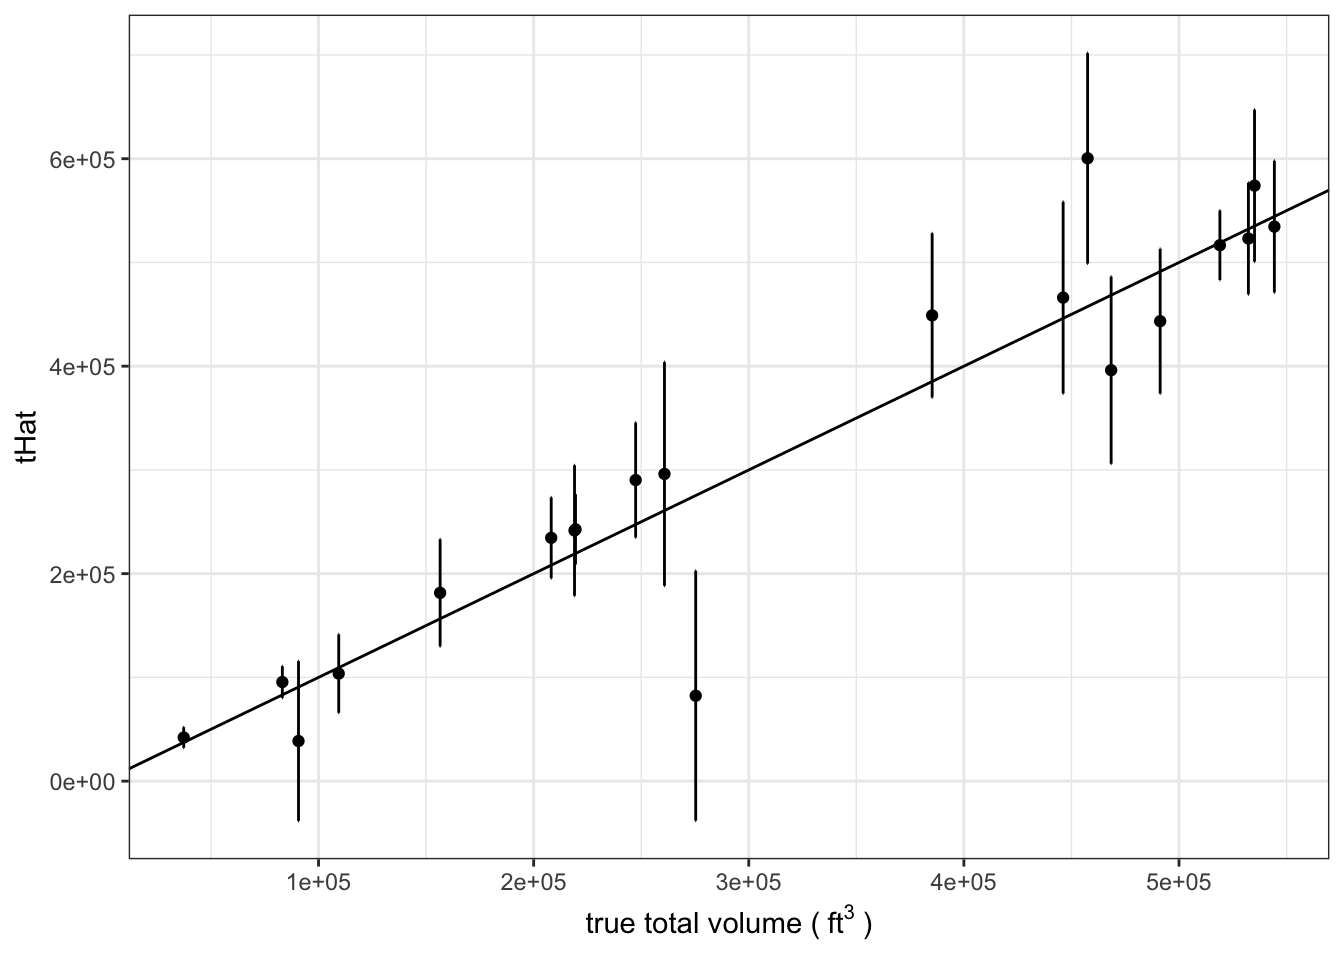
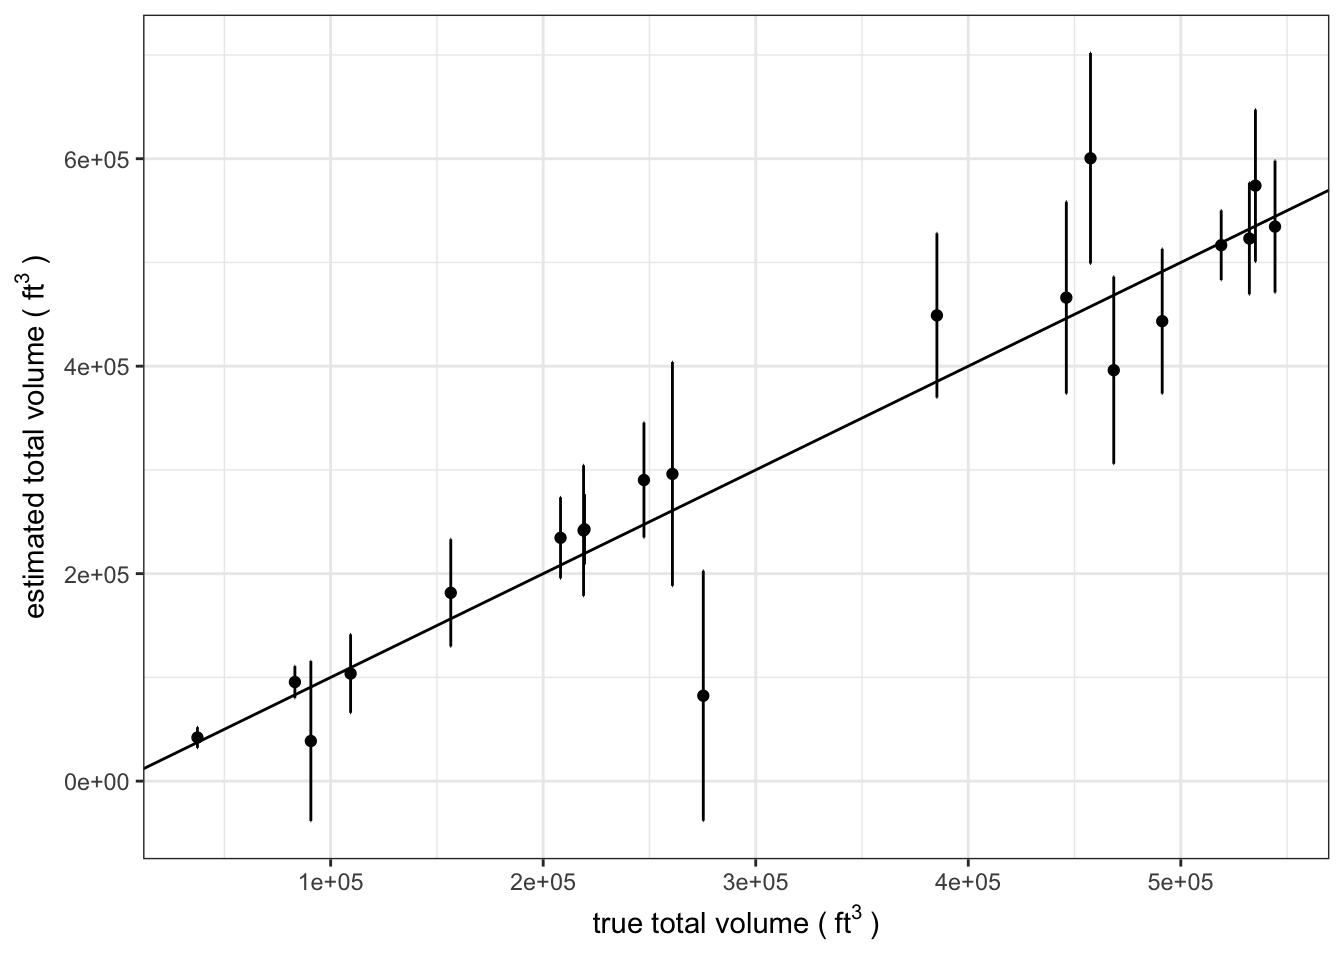
clean up posts

diff --git a/content/post/sf/2018-09-24-sf.html b/content/post/sf/2018-09-24-sf.html
@@ -5,11 +5,6 @@ date: "2018-09-24"
 categories: ["R"]
 tags: ["sf", "geospatial"]
 
-output:
-  md_document:
-    variant: markdown_github
-    fig_width: 7
-    preserve_yaml: true
 ---
 
 
@@ -42,13 +37,17 @@ output:
 <h3>Download some data</h3>
 <p>The ecological supersections make a cool spatial dataset that describe large ecological provinces across the continental US.</p>
 <pre class="r"><code># import supersection shapefile
-if(!file.exists(&quot;/tmp/gis-supersection-shape-file.zip&quot;)) {
-  download.file(url = &quot;https://www.arb.ca.gov/cc/capandtrade/protocols/usforest/2014/supersectionshapefiles/gis-supersection-shape-file.zip&quot;,
-                destfile = &quot;/tmp/gis-supersection-shape-file.zip&quot;)
-  
+if (!file.exists(&quot;/tmp/gis-supersection-shape-file.zip&quot;)) {
+  download.file(
+    url = &quot;https://www.arb.ca.gov/cc/capandtrade/protocols/usforest/2014/supersectionshapefiles/gis-supersection-shape-file.zip&quot;,
+    destfile = &quot;/tmp/gis-supersection-shape-file.zip&quot;
+  )
 }
 
-unzip(zipfile = &quot;/tmp/gis-supersection-shape-file.zip&quot;, exdir = &quot;/tmp/super&quot;)
+unzip(
+  zipfile = &quot;/tmp/gis-supersection-shape-file.zip&quot;,
+  exdir = &quot;/tmp/super&quot;
+)
 superFile &lt;- &quot;/tmp/super/Supersections/Supersections.shp&quot;</code></pre>
 </div>
 <div id="reading-in-spatial-data" class="section level3">
@@ -97,15 +96,19 @@ superFile &lt;- &quot;/tmp/super/Supersections/Supersections.shp&quot;</code></p
 <h3>Plotting</h3>
 <p>sf objects can be plotted using base R plotting methods, but the <code>ggplot</code> method creates really nice looking maps with a familiar interface to many users.</p>
 <pre class="r"><code>ggplot() +
-  geom_sf(data = supersectionShape,
-          size = 0.5,
-          color = &quot;black&quot;,
-          alpha = 0) +
+  geom_sf(
+    data = supersectionShape,
+    size = 0.5,
+    color = &quot;black&quot;,
+    alpha = 0
+  ) +
   theme_bw() +
   coord_sf() +
-  labs(title = &quot;Ecological Supersections&quot;,
-       subtitle = &quot;Map of the ecological supersections in the continental US&quot;,
-       caption = &quot;Source: CA ARB&quot;)</code></pre>
+  labs(
+    title = &quot;Ecological Supersections&quot;,
+    subtitle = &quot;Map of the ecological supersections in the continental US&quot;,
+    caption = &quot;Source: CA ARB&quot;
+  )</code></pre>
 <div class="figure"><span id="fig:ggplotting"></span>
 <img src="/post/sf/2018-09-24-sf_files/figure-html/ggplotting-1.png" alt="Map of ecological supersections in continental US" width="672" />
 <p class="caption">
@@ -130,26 +133,34 @@ Figure 1: Map of ecological supersections in continental US
 <p>It does not share the same projection, so we are going to need to reproject before we perform any spatial joins.</p>
 <p>If we want to know which supersections are present in the state of Minnesota, we can perform a spatial join to answer that question. The type of join performed by <code>st_join</code> defaults to “intersect” (<code>st_intersect</code>), but can be set to one of these instead: <code>st_disjoint</code>, <code>st_touches</code>, <code>st_crosses</code>, <code>st_within</code>, <code>st_contains</code>, <code>st_overlaps</code>, <code>st_covers</code>, <code>st_covered_by</code>, <code>st_equals</code>, or <code>st_equals_exact</code>.</p>
 <pre class="r"><code>mnSupersections &lt;- supersectionShape %&gt;%
-  st_join(st_transform(us_states, crs = 4326),
-          join = st_intersects) %&gt;%
+  st_join(
+    st_transform(us_states, crs = 4326),
+    join = st_intersects
+  ) %&gt;%
   filter(NAME == &quot;Minnesota&quot;)</code></pre>
 <pre><code>## although coordinates are longitude/latitude, st_intersects assumes that they are planar</code></pre>
 <pre class="r"><code>mn &lt;- us_states %&gt;%
   filter(NAME == &quot;Minnesota&quot;)</code></pre>
 <pre class="r"><code>ggplot() +
-  geom_sf(data = mn,
-          size = 0.5,
-          fill = &quot;blue&quot;,
-          alpha = 0.2) +
-  geom_sf(data = mnSupersections,
-          size = 0.5,
-          color = &quot;black&quot;,
-          alpha = 0) +
+  geom_sf(
+    data = mn,
+    size = 0.5,
+    fill = &quot;blue&quot;,
+    alpha = 0.2
+  ) +
+  geom_sf(
+    data = mnSupersections,
+    size = 0.5,
+    color = &quot;black&quot;,
+    alpha = 0
+  ) +
   theme_bw() +
   coord_sf() +
-  labs(title = &quot;Ecological Supersections in MN&quot;,
-       subtitle = &quot;Map of the ecological supersections in Minnesota&quot;,
-       caption = &quot;Source: CA ARB&quot;)</code></pre>
+  labs(
+    title = &quot;Ecological Supersections in MN&quot;,
+    subtitle = &quot;Map of the ecological supersections in Minnesota&quot;,
+    caption = &quot;Source: CA ARB&quot;
+  )</code></pre>
 <p><img src="/post/sf/2018-09-24-sf_files/figure-html/mnPlots-1.png" width="672" /></p>
 </div>
 <div id="dissolving" class="section level3">
@@ -160,11 +171,13 @@ Figure 1: Map of ecological supersections in continental US
   summarize()
 
 ggplot() +
-  geom_sf(data = regions,
-          aes(fill = REGION),
-          size = 0.5,
-          color = &quot;black&quot;,
-          alpha = 1) +
+  geom_sf(
+    data = regions,
+    aes(fill = REGION),
+    size = 0.5,
+    color = &quot;black&quot;,
+    alpha = 1
+  ) +
   theme_bw() +
   coord_sf()</code></pre>
 <p><img src="/post/sf/2018-09-24-sf_files/figure-html/dissolve-1.png" width="672" /></p>
@@ -173,42 +186,61 @@ ggplot() +
 <h3>Bonus: working with rasters</h3>
 <p>Operations between rasters and <code>sf</code> objects are the same as before: load the raster using the raster package, summarize/extract raster data to vector layer using the <code>extract</code> function. Look for an update to this post once I see if there is a tidy way to summarize rasters within the piping framework!</p>
 <pre class="r"><code># download low resolution climate rasters
-if(!file.exists(&quot;/tmp/climate-rasts.zip&quot;)) {
-  download.file(url = &quot;http://biogeo.ucdavis.edu/data/worldclim/v2.0/tif/base/wc2.0_10m_tavg.zip&quot;,
-                destfile = &quot;/tmp/climate-rasts.zip&quot;)
-  
+if (!file.exists(&quot;/tmp/climate-rasts.zip&quot;)) {
+  download.file(
+    url = &quot;http://biogeo.ucdavis.edu/data/worldclim/v2.0/tif/base/wc2.0_10m_tavg.zip&quot;,
+    destfile = &quot;/tmp/climate-rasts.zip&quot;
+  )
 }
 
-unzip(zipfile = &quot;/tmp/climate-rasts.zip&quot;, exdir = &quot;/tmp/climate-rasts&quot;)
-rasts &lt;- list.files(&quot;/tmp/climate-rasts&quot;, full.names = TRUE)</code></pre>
+unzip(
+  zipfile = &quot;/tmp/climate-rasts.zip&quot;,
+  exdir = &quot;/tmp/climate-rasts&quot;
+)
+rasts &lt;- list.files(
+  &quot;/tmp/climate-rasts&quot;,
+  full.names = TRUE
+)</code></pre>
 <p>The climate rasters downloaded in the previous step represent the mean temperature by month at ~340 km2 resolution. For a real analysis, we would want the weighted mean temperature for each polygon (weighted on proportion of each raster cell falling within each polygon), but that takes a lot longer so we will just get the mean of intersecting cells.</p>
-<pre class="r"><code>janTemp &lt;- raster::raster(rasts[grepl(&quot;tavg_01.tif&quot;, rasts)])
+<pre class="r"><code>janTemp &lt;- raster::raster(
+  rasts[grepl(&quot;tavg_01.tif&quot;, rasts)]
+)
 
 # reproject supersection shape to match raster
-supersectionShape2 &lt;- st_transform(supersectionShape,
-                                   crs = raster::projection(janTemp))
+supersectionShape2 &lt;- st_transform(
+  supersectionShape,
+  crs = raster::projection(janTemp)
+)
 
 # extract mean temp (C) for month of January for each polygon
-janTemp &lt;- raster::extract(janTemp,
-                           as(supersectionShape2, &quot;Spatial&quot;),
-                           fun = mean, weights = FALSE,
-                           na.rm = TRUE)
+janTemp &lt;- raster::extract(
+  janTemp,
+  as(supersectionShape2, &quot;Spatial&quot;),
+  fun = mean, weights = FALSE,
+  na.rm = TRUE
+)
 
 supersectionShape2$janTemp &lt;- janTemp
 
 janPlot &lt;- ggplot() +
-  geom_sf(data = supersectionShape2,
-          aes(fill = janTemp),
-          size = 0.5,
-          color = &quot;black&quot;,
-          alpha = 1) +
-  scale_fill_gradient2(high = &quot;red&quot;, low = &quot;blue&quot;,
-                       name = &quot;Mean Temp (C)&quot;) +
+  geom_sf(
+    data = supersectionShape2,
+    aes(fill = janTemp),
+    size = 0.5,
+    color = &quot;black&quot;,
+    alpha = 1
+  ) +
+  scale_fill_gradient2(
+    high = &quot;red&quot;, low = &quot;blue&quot;,
+    name = &quot;Mean Temp (C)&quot;
+  ) +
   theme_bw() +
   coord_sf() +
-  labs(title = &quot;Temperature across Ecological Supersections&quot;,
-       subtitle = &quot;Mean January temperature (C) by ecological supersection&quot;,
-       caption = &quot;Source: CA ARB, WorldClim 2.0&quot;)</code></pre>
+  labs(
+    title = &quot;Temperature across Ecological Supersections&quot;,
+    subtitle = &quot;Mean January temperature (C) by ecological supersection&quot;,
+    caption = &quot;Source: CA ARB, WorldClim 2.0&quot;
+  )</code></pre>
 <p>Mapping mean temp in January confirms what we already knew: Minnesota is cold!</p>
 <p><img src="/post/sf/2018-09-24-sf_files/figure-html/meanJanTemp-1.png" width="672" /></p>
 </div>

diff --git a/content/post/horvitz-thompson/2019-02-04-horvitz_thompson.html b/content/post/horvitz-thompson/2019-02-04-horvitz_thompson.html
@@ -14,6 +14,10 @@ header:
 
 <p>The application of statistical survey sampling techniques to the assessment of forest resources (aka forest inventory) has been elemental to improvements in forest management practices across the globe. Sampling methods that can efficiently yield accurate and precise estimates are preferred by forest managers because collecting forest inventory data is difficult and expensive!</p>
 <p>Two-stage sampling is useful in forest inventory because it can improve efficiency by reducing the number of stands (primary sample units) that are visited and by using auxilliary information for selecting sampled stands. This official name for this type of sample design is an <em>unequal probability without replacement, two-stage sample</em>. Unequal probability sampling is well documented in statistical textbooks, but the estimators for sample variance are much more complex than those for sample designs with equal probability and/or with replacement.</p>
+<div class="figure">
+<img src="static/post/horvitz-thompson/2019-02-04-horvitz_thompson_files/figure-html/simComp-1.png" />
+
+</div>
 <p>I dug around the internet, textbooks, and through my old lecture notes from forest mensuration courses and could not find a complete demonstration of a two-stage sample where the primary sample units were selected with unequal probability. The Horvitz-Thompson estimators provide most of the solution, but they need to be extended slightly to account for the variance from the second stage (sample variance within individual stands). There is much uncertainty about the best way to compute the inclusion probabilities, so I have devised a brute force simulation approach to estimating those.</p>
 <div id="objectives" class="section level2">
 <h2>Objectives</h2>
@@ -277,7 +281,12 @@ stands %&gt;%
 \displaystyle \frac{\pi_{ik} - \pi_{i}\pi_{k}}{\pi_{ik}} \left(\frac{\hat{t}_{i}}{\pi_{i}} - \frac{\hat{t}_{k}}{\pi_{k}}\right)^{2}+
 \sum_{i \in S} \displaystyle \frac{\hat{V}(\hat{t_{i}})}{\pi_{i}}
 \]</span></p>
-<p>where <span class="math inline">\(\pi_{ik}\)</span> is the joint inclusion probability for primary sampling units <span class="math inline">\(i\)</span> and <span class="math inline">\(k\)</span> and <span class="math inline">\(\hat{V}(\hat{t_{i}})\)</span> is the variance of the estimate for the <span class="math inline">\(i\)</span>th sample unit.</p>
+<p>where <span class="math inline">\(\pi_{ik}\)</span> is the joint inclusion probability for primary sampling units <span class="math inline">\(i\)</span> and <span class="math inline">\(k\)</span> and <span class="math inline">\(\hat{V}(\hat{t_{i}})\)</span> is the variance of the estimate for the <span class="math inline">\(i\)</span>th sample unit:</p>
+<p><span class="math display">\[
+\hat{V}(\hat{t_{i}}) = \displaystyle \frac{\sum_{j=1}^{n_{j}}(\hat{t}_{ij} - \hat{t}_{i})^2}{n_{i}(n_{i} - 1)}
+\]</span></p>
+<p>where <span class="math inline">\(n_{i}\)</span> is the number of sample observations in primary sample unit <span class="math inline">\(i\)</span></p>
+<p><span class="math inline">\(\hat{t}_{ij}\)</span> is the <span class="math inline">\(j\)</span>th estimate of the total on the <span class="math inline">\(i\)</span>th primary sample unit. In this case, we observed the cubic feet per acre on each plot then multiplied by stand acres to get total cubic feet.</p>
 <p>The Sen-Yates-Grundy formulation of the variance calculation requires each observation to be compared to the rest of the observations in the sample. There may be a more elegant way to code that part, but for now this is what I have come up with:</p>
 <pre class="r"><code># Sen-Yates-Grundy formulation
 var_syg &lt;- function(row, data, y, pi_i, p,
@@ -330,7 +339,8 @@ standDat %&gt;%
   geom_point() +
   geom_errorbar(aes(ymin = tHat - 1.7 * se, ymax = tHat + 1.7 * se)) +
   geom_abline() +
-  xlab(bquote(&quot;true total volume (&quot; ~ ft^{3} ~ &quot;)&quot;))</code></pre>
+  xlab(bquote(&quot;true total volume (&quot; ~ ft^{3} ~ &quot;)&quot;))+
+  ylab(bquote(&quot;estimated total volume (&quot; ~ ft^{3} ~ &quot;)&quot;))</code></pre>
 <p><img src="/post/horvitz-thompson/2019-02-04-horvitz_thompson_files/figure-html/standStats-1.png" width="672" /></p>
 </div>
 <div id="population-level-estimate" class="section level3">
